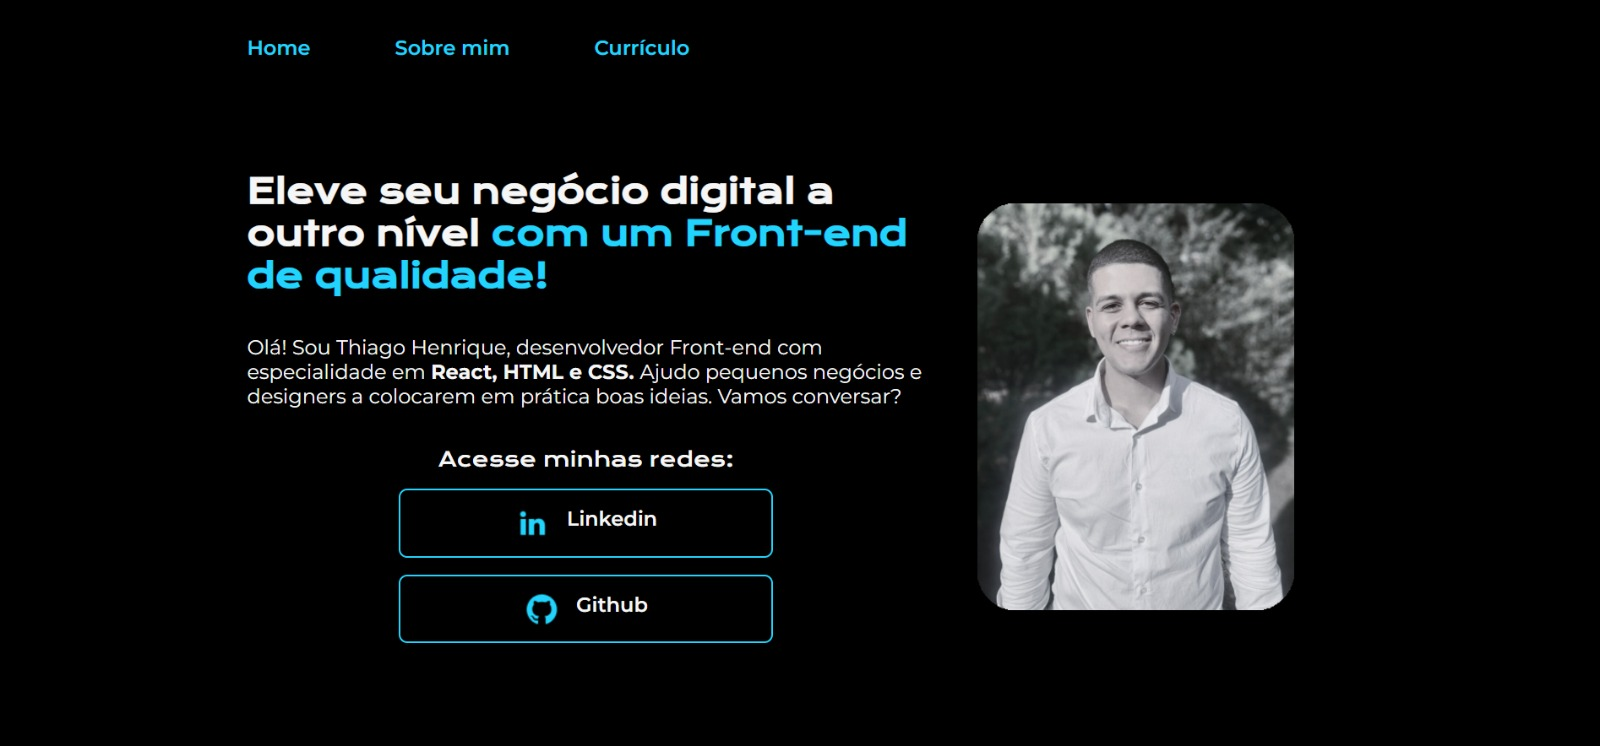
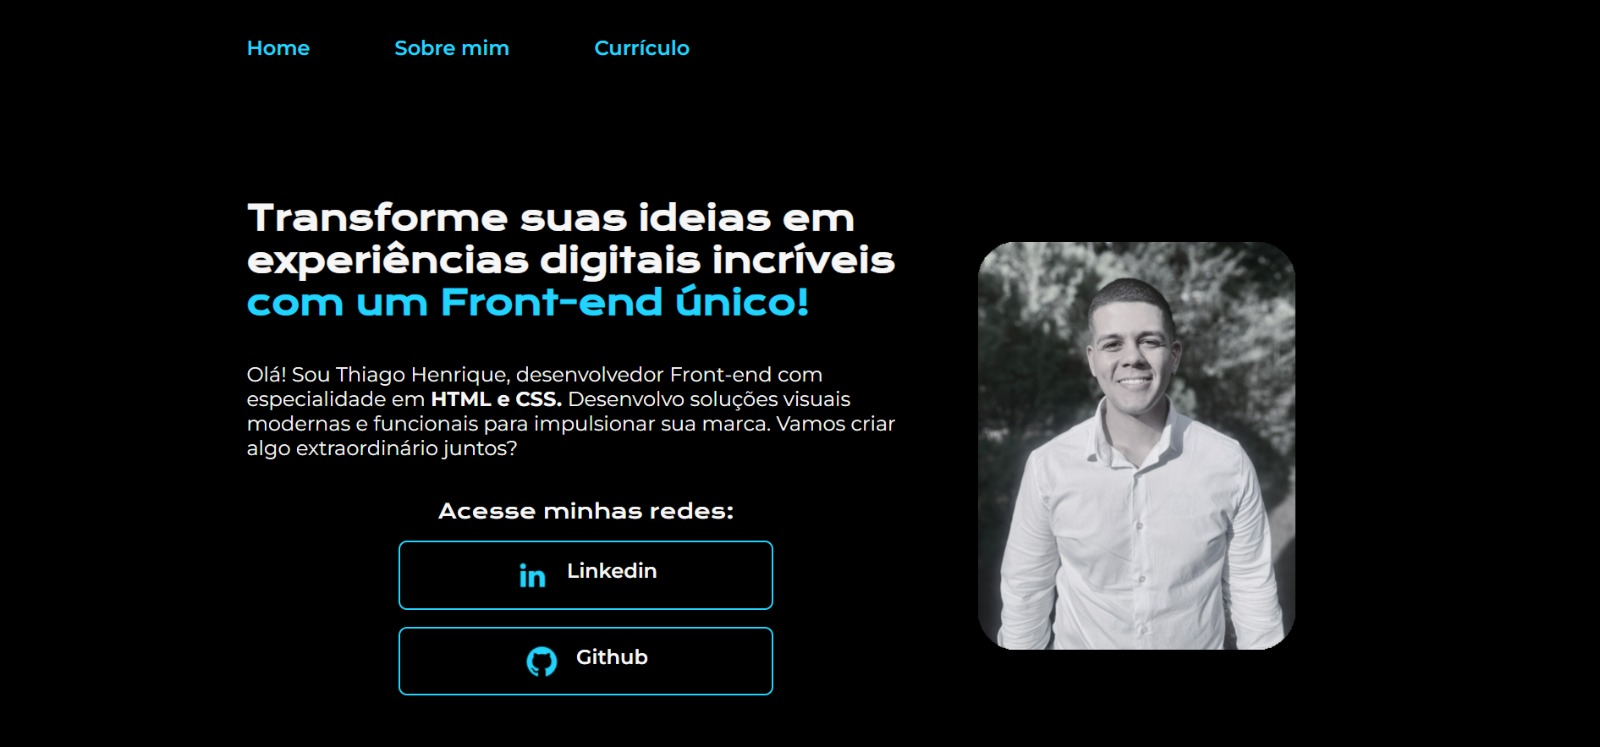
capa diferente

Changed region(s): [[0.1562, 0.2158, 0.5938, 0.9558], [0.5938, 0.2466, 0.8125, 0.8941], [0.1562, 0.0617, 0.1875, 0.0925]]

diff --git a/about.html b/about.html
@@ -34,7 +34,7 @@
                 Iniciei minha carreira no Corpo de Bombeiros Militar em 2017, onde fui Operador Aerotático e piloto de Aeronaves Remotamente Pilotadas (drones). Durante esse tempo, adquiri habilidades valiosas como resolução de problemas em tempo real, trabalho sob pressão, adaptação rápida a novas tecnologias e uma visão estratégica para tomar decisões com precisão. Esses anos de serviço me ensinaram a importância da inovação, do trabalho em equipe e do compromisso com resultados de alta qualidade.
             </p>
             <p class="apresentacao__conteudo__texto">
-                Agora, em transição de carreira para a área de desenvolvimento, estou focado em criar soluções impactantes como desenvolvedor Front-End, com especialização em React, HTML e CSS. Ao longo da minha trajetória, aprendi a importância de transformar ideias em interfaces intuitivas e funcionais, que proporcionam uma experiência de usuário fluida e agradável.
+                Agora, em transição de carreira para a área de desenvolvimento, estou focado em criar soluções impactantes como desenvolvedor Front-End, com especialização em HTML e CSS. Ao longo da minha trajetória, aprendi a importância de transformar ideias em interfaces intuitivas e funcionais, que proporcionam uma experiência de usuário fluida e agradável.
             </p>
             <p class="apresentacao__conteudo__texto">
                 Estou em constante aprendizado e me esforço para estar sempre atualizado com as melhores práticas e ferramentas do mercado. Acredito que minha bagagem multidisciplinar, combinada com minha paixão por tecnologia, me torna um profissional único, pronto para encarar qualquer desafio no desenvolvimento de soluções digitais.

diff --git a/index.html b/index.html
@@ -28,17 +28,17 @@
     <main class="apresentacao">
         <section class="apresentacao__conteudo">
             <h1 class="apresentacao__conteudo__titulo">
-                Eleve seu negócio digital a outro nível 
+                Transforme suas ideias em experiências digitais incríveis 
                 <strong class="TituloDestacado">
-                    com um Front-end de qualidade!
+                    com um Front-end único!
                 </strong>
             </h1> 
             <p class="apresentacao__conteudo__texto">
                 Olá! Sou Thiago Henrique, desenvolvedor Front-end com especialidade em 
                 <strong>
-                    React, HTML e CSS.
+                    HTML e CSS.
                 </strong> 
-                Ajudo pequenos negócios e designers a colocarem em prática boas ideias. Vamos conversar?         
+                Desenvolvo soluções visuais modernas e funcionais para impulsionar sua marca. Vamos criar algo extraordinário juntos?         
             </p>
             <div class="apresentacao__links">
                 <h2 class="apresentacao__links__subtitulo">

diff --git a/curriculo.html b/curriculo.html
@@ -29,7 +29,7 @@
                 Currículo
             </h1>
             <p class="apresentacao__conteudo__texto">
-                Sou graduando em Sistemas de Informação pela UFMG e técnico em Mecatrônica pelo CEFET-MG. Atualmente, estou em transição para a área de desenvolvimento, com especialização em Front-End, trabalhando principalmente com React, HTML e CSS. Minha formação técnica e minha experiência no Corpo de Bombeiros me proporcionaram uma visão analítica e estratégica que aplico no desenvolvimento de interfaces digitais.
+                Sou graduando em Sistemas de Informação pela UFMG e técnico em Mecatrônica pelo CEFET-MG. Atualmente, estou em transição para a área de desenvolvimento, com especialização em Front-End, trabalhando principalmente com HTML e CSS. Minha formação técnica e minha experiência no Corpo de Bombeiros me proporcionaram uma visão analítica e estratégica que aplico no desenvolvimento de interfaces digitais.
             </p>
 
             <p class="apresentacao__conteudo__texto">
